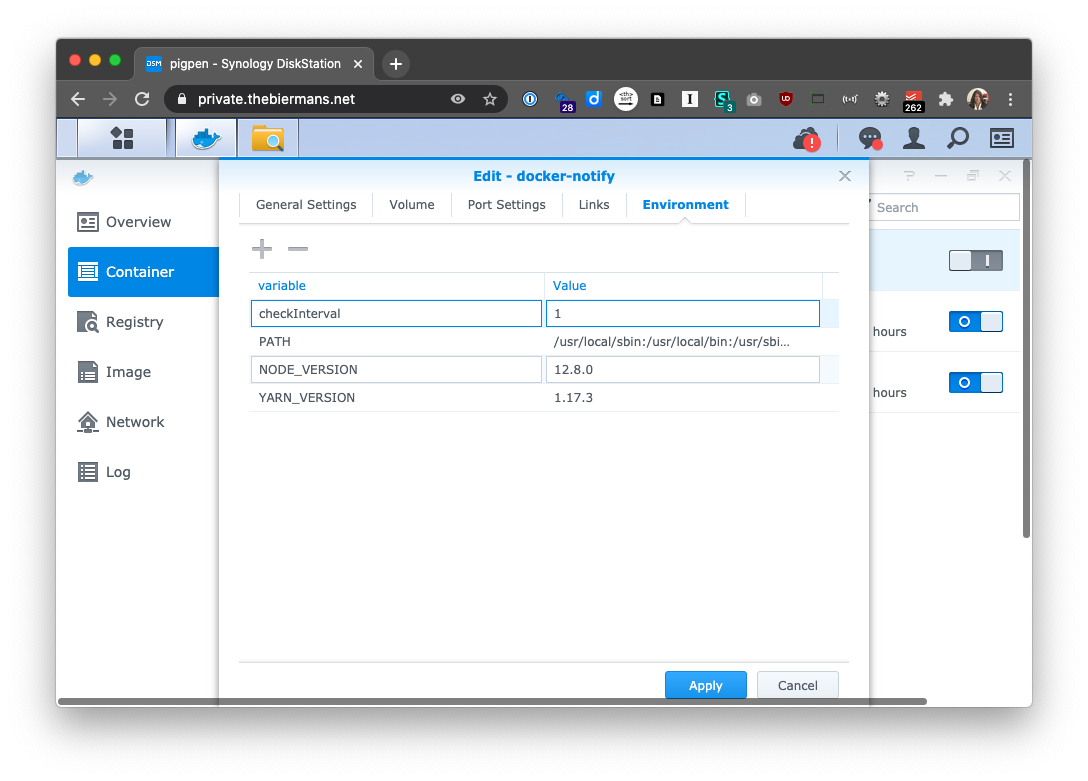
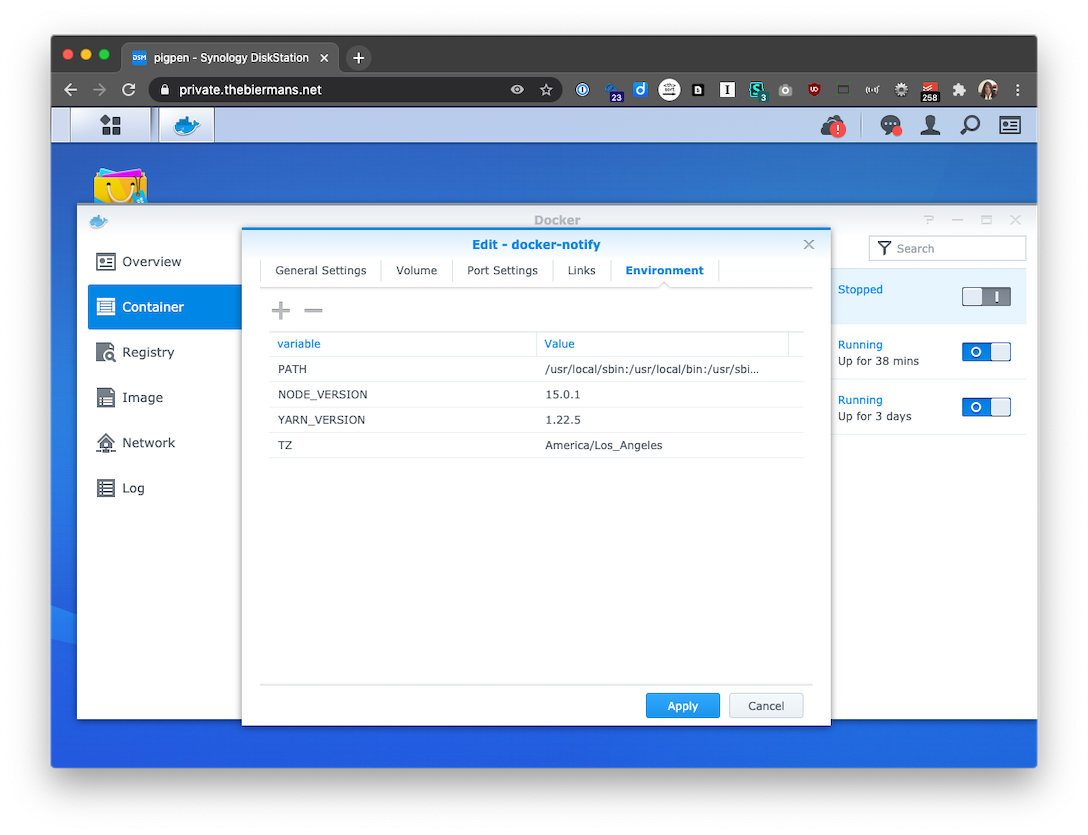
Updated the Env instructions

Changed region(s): [[0.0312, 0.0307, 0.9688, 0.9219], [0.5, 0.338, 0.7188, 0.5531]]

diff --git a/Synology Readme.md b/Synology Readme.md
@@ -71,9 +71,9 @@ Click the ```Network``` tab and check the box to ```Use the same network as Dock
 ![Network settings](cache/images/9network.png)
 
 ## 10. Configure Environment (optional).
-Click the ```Environment``` tab and add a new environment variable named `checkInterval`. The value of the `checkInterval` defines in hours, how often checks will be made for new container releases.
+Click the ```Environment``` tab and add a new environment variable named `TZ`. The value of the `TZ database` you can lookup yours [here](https://en.wikipedia.org/wiki/List_of_tz_database_time_zones). 
 
-![Environment variables](cache/images/10Enviornment.png)
+![Environment variables](cache/images/10Enviornment.png)	
 
 Click ```OK``` to save your advanced settings and then click ```Apply``` to start the [Schlabbi/docker-notify](https://github.com/Schlabbi/docker-notify) container.
 
